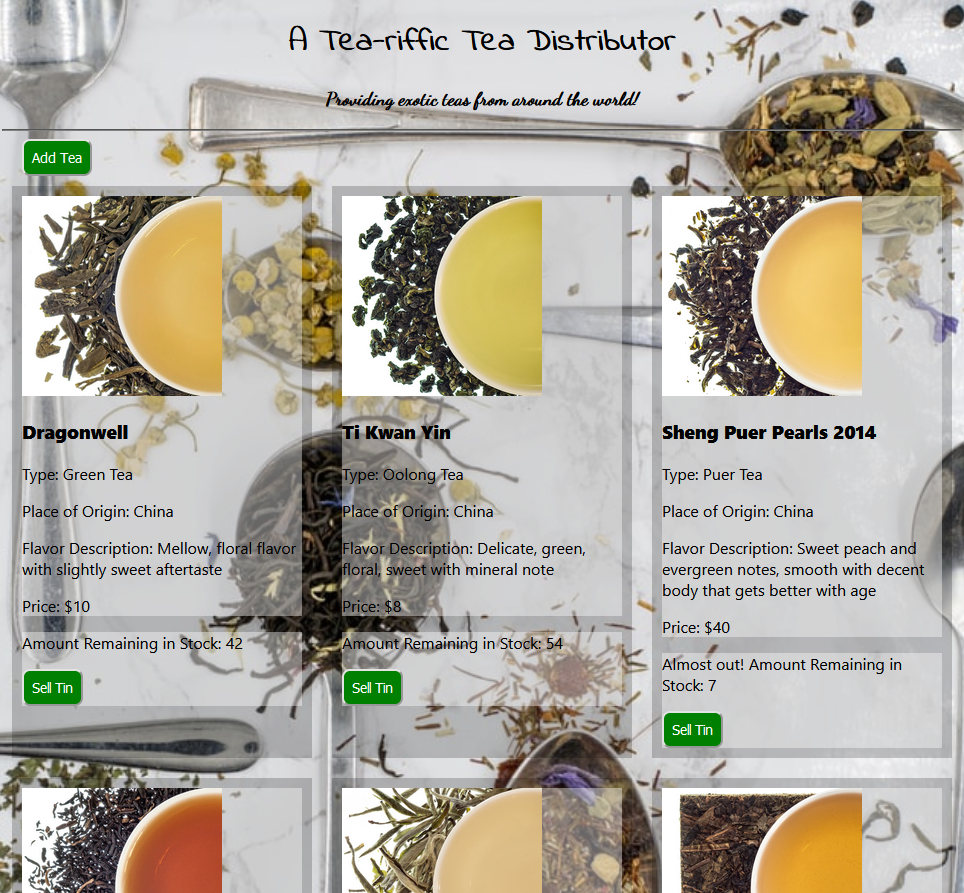
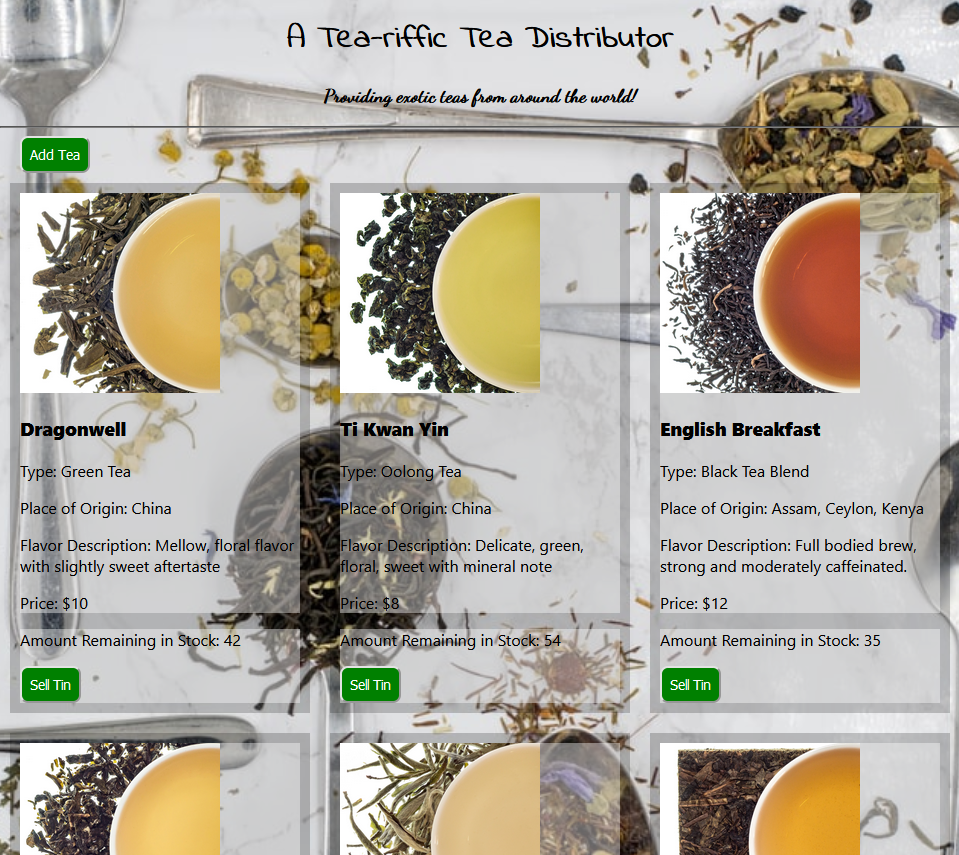
Fix images, edit README, add default image

diff --git a/src/components/Tea/TeaControl.js b/src/components/Tea/TeaControl.js
@@ -28,16 +28,6 @@ const masterTeaList = [
   },
   {
     id: v4 (),
-    name: "Sheng Puer Pearls 2014",
-    type: "Puer Tea",
-    origin: "China",
-    flavor: "Sweet peach and evergreen notes, smooth with decent body that gets better with age",
-    price: 40,
-    amount: 7,
-    image: "https://cdn.shopify.com/s/files/1/0888/8900/products/Standard_Shot_Ms._Zhao_s_Sheng_Puer_Pearl.jpg?v=1554923461",
-  },
-  {
-    id: v4 (),
     name: "English Breakfast",
     type: "Black Tea Blend",
     origin: "Assam, Ceylon, Kenya",
@@ -45,6 +35,16 @@ const masterTeaList = [
     price: 12,
     amount: 35,
     image: "https://cdn.shopify.com/s/files/1/0888/8900/products/9000-Decaf_English_Breakfast.jpg?v=1445269330",
+  },
+  {
+    id: v4 (),
+    name: "Sheng Puer Pearls 2014",
+    type: "Puer Tea",
+    origin: "China",
+    flavor: "Sweet peach and evergreen notes, smooth with decent body that gets better with age",
+    price: 40,
+    amount: 7,
+    image: "https://cdn.shopify.com/s/files/1/0888/8900/products/Standard_Shot_Ms._Zhao_s_Sheng_Puer_Pearl.jpg?v=1554923461",
   },
   {
     id: v4 (),
@@ -133,6 +133,9 @@ class TeaControl extends React.Component {
 
   // Handler to find if a new tea is to be added, add tea to list and update list, change back to main page view
   handleAddingTeaToList = (newTea) => {
+    if (newTea.image === "") {
+      newTea.image = "./defaultImage.jpeg";
+    }
     const newMasterTeaList = this.state.masterTeaList.concat(newTea);
     this.setState({
       masterTeaList: newMasterTeaList,

diff --git a/src/components/Tea/AddTeaForm.js b/src/components/Tea/AddTeaForm.js
@@ -105,7 +105,7 @@ function AddTeaForm(props){
               className="form-control"
               type="text"
               name="image"
-              placeholder="Smooth tea with sweet undertones..." />
+              placeholder="http://image.com/tea.jpg" />
           </label>
         </div>
         <button className="btn btn-light" type="submit">Add </button>

diff --git a/README.md b/README.md
@@ -88,7 +88,7 @@ This project uses React to make a clean, well organized page.  First individual 
 ### Further Exploration
 
 <details>
-  <summary>Click to expand to viewFurther Exploration topics </summary>
+  <summary>Click to expand to view Further Exploration topics </summary>
 
   - [ ] As a user, I want the option to edit a tea's properties after entering them just in case I make a mistake.
   - [ ] As a user, I want to be able to delete a tea.
@@ -108,6 +108,13 @@ _Here is a snippet of what the front page looks like:_
 _Here is a preview of what the add form looks like:_
 
 ![Snippet of add form](./public/snippet2.png)
+
+<details>
+  <summary>Click to expand to view a gif of the Quantity Button </summary>
+
+  ![Animation of QuantityButton functionality](./public/quantityButton.gif)
+
+  </details>
 
 ## Known Bugs
 
